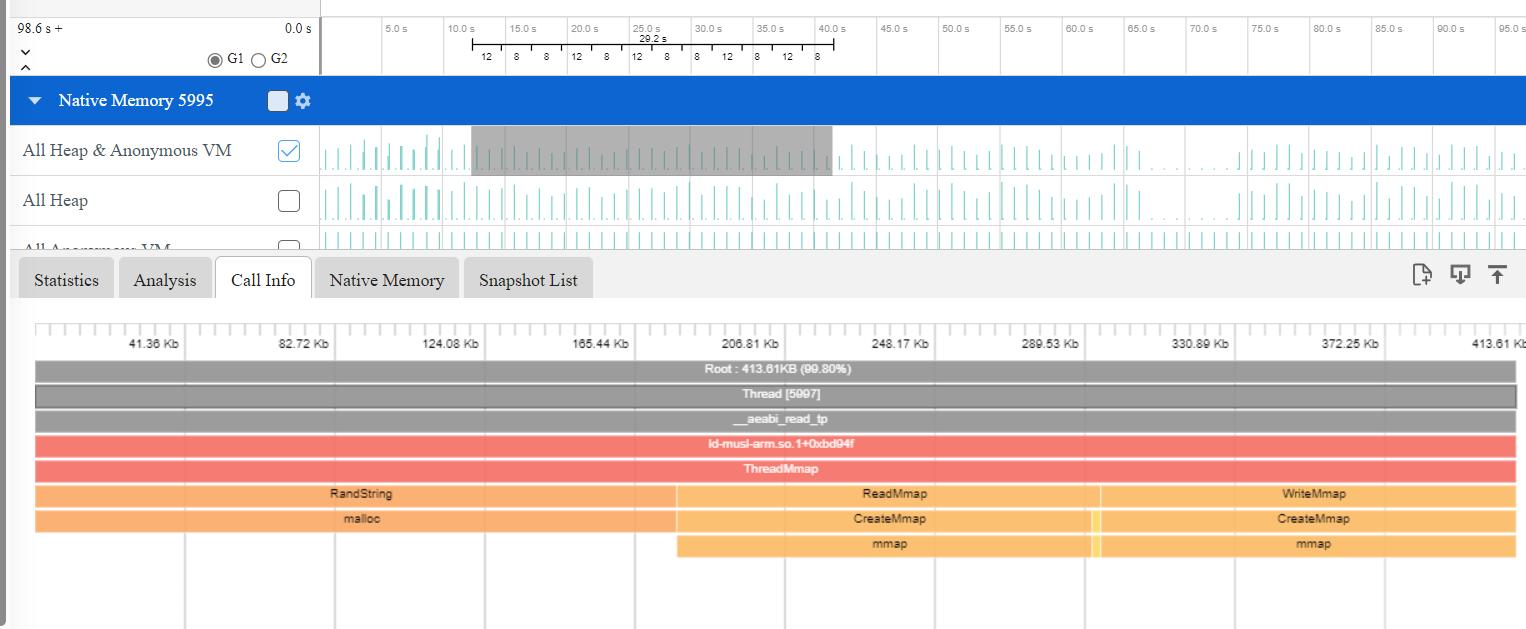
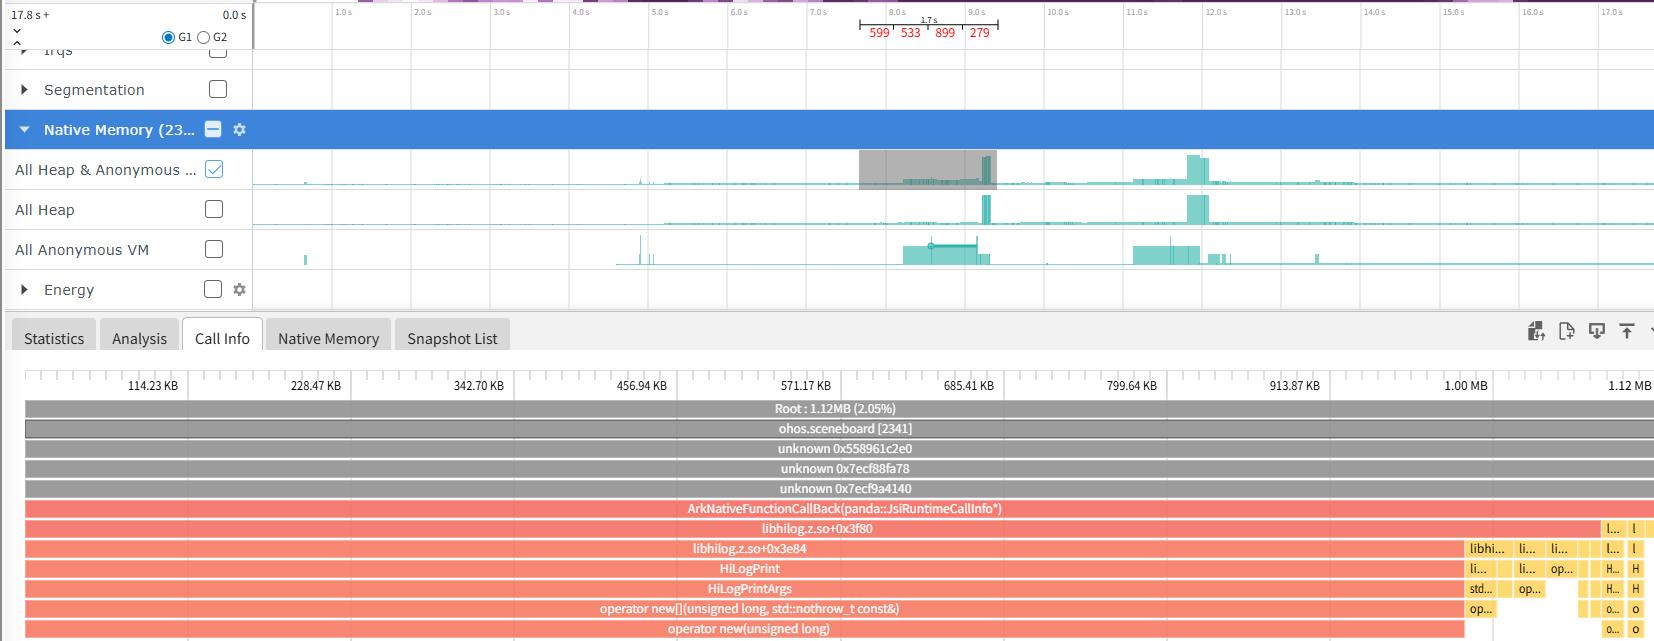
fix:内存相关问题修改

diff --git a/smartperf_host/ide/src/trace/component/trace/sheet/otherSource/TabpaneOSCalltree.ts b/smartperf_host/ide/src/trace/component/trace/sheet/otherSource/TabpaneOSCalltree.ts
@@ -46,7 +46,7 @@ export class TabpaneOSCalltree extends BaseElement {
     private filterOthersourceType: string = '0';
     private filterResponseType: number = -1;
     private filterResponseSelect: string = '0';
-    private otherSourceType: Array<string> = ['FD','THREAD'];
+    private otherSourceType: Array<string> = ['FD', 'THREAD'];
     private _analysisTabWidth: number = 0;
     private loadingList: number[] = [];
     private sortKey: string = 'heapSizeStr';
@@ -91,6 +91,15 @@ export class TabpaneOSCalltree extends BaseElement {
     }
 
     set data(osCallTreeParam: SelectionParam) {
+        const isShow = osCallTreeParam.otherSource.length > 0;
+        this.osCallTreeFrameChart!.dispatchEvent(
+            new CustomEvent('show-calibration', {
+                detail: {
+                    isShow: isShow
+                },
+                bubbles: false
+            })
+        );
         if (osCallTreeParam === this.currentSelection) {
             return;
         }
@@ -153,7 +162,7 @@ export class TabpaneOSCalltree extends BaseElement {
         this.osCallTreeProgressEL!.loading = true; // @ts-ignore
         this.osCallTreeLoadingPage.style.visibility = 'visible';
     }
-    
+
     initElements(): void {
         this.headLine = this.shadowRoot?.querySelector<LitHeadLine>('.titleBox');
         this.osCallTreeTbl = this.shadowRoot?.querySelector<LitTable>('#tb-otherSource-calltree');
@@ -279,7 +288,7 @@ export class TabpaneOSCalltree extends BaseElement {
         }
     }
 
-    private initGetFilterByOSCallTreeFilter(osCallTreeData: FilterData): void {//看一下
+    private initGetFilterByOSCallTreeFilter(osCallTreeData: FilterData): void {
         if (
             this.filterLifespanType !== osCallTreeData.firstSelect ||
             this.filterOthersourceType !== osCallTreeData.secondSelect ||
@@ -563,10 +572,10 @@ export class TabpaneOSCalltree extends BaseElement {
             );
             addSubType(subTypeList);
         }// @ts-ignore
-        this.oSCallTreeFilterExtend(secondFilterList,osCallTreeParam);
+        this.oSCallTreeFilterExtend(secondFilterList, osCallTreeParam);
     }
 
-    private oSCallTreeFilterExtend(secondFilterList: string[],osCallTreeParam: SelectionParam): void {
+    private oSCallTreeFilterExtend(secondFilterList: string[], osCallTreeParam: SelectionParam): void {
         procedurePool.submitWithName('logic0', 'other-source-get-responseType', {}, undefined, (res: unknown) => {
             // @ts-ignore
             this.responseTypes = res;
@@ -965,5 +974,5 @@ export class TabpaneOSCalltree extends BaseElement {
     initHtml(): string {
         return TabPaneOSCallTreeHtml;
     }
-    
+
 }

diff --git a/smartperf_host/ide/src/trace/component/chart/FrameChart.ts b/smartperf_host/ide/src/trace/component/chart/FrameChart.ts
@@ -69,6 +69,7 @@ export class FrameChart extends BaseElement {
   _totalRootData: Array<ChartStruct> = []; //初始化顶部root的数据
   private totalRootNode!: ChartStruct;
   private tabPaneFilter: TabPaneFilter | undefined;
+  private _isShow: boolean = true;
 
   /**
    * set chart mode
@@ -887,6 +888,7 @@ export class FrameChart extends BaseElement {
               time: ChartStruct.selectFuncStruct.tsArray,
               counts: ChartStruct.selectFuncStruct.countArray,
               durations: ChartStruct.selectFuncStruct.durArray,
+              isShow:this._isShow
             },
           })
         );
@@ -1103,6 +1105,10 @@ export class FrameChart extends BaseElement {
       }
     });
     this.listenerResize();
+    this.addEventListener('show-calibration', (e: Event) => {
+      const customEvent = e as CustomEvent<{ isShow: boolean }>;
+      this._isShow = customEvent.detail.isShow;
+    });
   }
 
   public initHtml(): string {

diff --git a/smartperf_host/ide/src/trace/component/trace/timer-shaft/SportRuler.ts b/smartperf_host/ide/src/trace/component/trace/timer-shaft/SportRuler.ts
@@ -98,6 +98,7 @@ export class SportRuler extends Graph {
   private timeArray: Array<number> = [];
   private countArray: Array<number> = [];
   private durArray: Array<number> = [];
+  private _isShow: boolean = true;
   private mouseIn: boolean = false;
   constructor(
     timerShaftEL: TimerShaftElement,
@@ -132,6 +133,10 @@ export class SportRuler extends Graph {
 
   set durations(durArray: Array<number>) {
     this.durArray = durArray;
+  }
+
+  set showRuler(isShow: boolean) {
+    this._isShow = isShow;
   }
 
   modifyFlagList(flag: Flag | null | undefined): void {
@@ -260,6 +265,9 @@ export class SportRuler extends Graph {
   }
 
   drawRangeSelect(): void {
+    if (!this._isShow) {
+      return;
+    }
     this.initRangeSelect();
     if (this.timeArray.length > 0 && TraceRow.rangeSelectObject) {
       // 页面可视框选区域的宽度

diff --git a/smartperf_host/ide/src/trace/database/data-trafic/NativeMemoryDataReceiver.ts b/smartperf_host/ide/src/trace/database/data-trafic/NativeMemoryDataReceiver.ts
@@ -107,7 +107,7 @@ function nativeMemoryChartDataCacheSql(model: string, startNS: number, endNS: nu
                 ipid,
                 type               
             from native_hook_statistic
-            where type in ( 0, 1, 2 )
+            where type in ( 0, 1, 2, 3 )
             and ts between ${startNS} and ${endNS};
     `;
   }
@@ -165,7 +165,7 @@ function mergeData(
   if (data) {
     let last = data.dataList[data.dataList.length - 1];
     last.dur = item.startTime! - last.startTime!;
-    if (last.dur > filterLevel || finish) {
+    if (last.dur >= filterLevel || finish) {
       if (ne.eventType === 0 || ne.eventType === 1) {
         item.density = last.density! + tempDensity + 1;
         item.heapSize = last.heapSize! + tempSize + ne.heapSize;

diff --git a/smartperf_host/ide/src/doc/quickstart_native_memory.html b/smartperf_host/ide/src/doc/quickstart_native_memory.html
@@ -1067,7 +1067,7 @@
       <h3 class="mume-header fontColor" id="header-index-7">
         基于函数进行调用栈（单个或多个）选择后可以在时间轴上显示内存操作点</h3>
 
-      <p class="fontColor">点击火焰图函数时，触发火焰图点击，显示调用栈中该函数出现在时间轴范围的分布情况。<br>
+      <p class="fontColor">在非统计模式下，点击火焰图函数时，触发火焰图点击，显示调用栈中该函数出现在时间轴范围的分布情况。<br>
         <img
           src="../figures/NativeMemory/memoryframe.jpg"
           alt="GitHub Logo"></p>

diff --git a/smartperf_host/ide/src/trace/component/trace/sheet/gpu-memory/TabpaneGMCalltree.ts b/smartperf_host/ide/src/trace/component/trace/sheet/gpu-memory/TabpaneGMCalltree.ts
@@ -92,6 +92,15 @@ export class TabpaneGMCalltree extends BaseElement {
     }
 
     set data(gmCallTreeParam: SelectionParam) {
+        const isShow = gmCallTreeParam.gpuMemory.length > 0;
+        this.gmCallTreeFrameChart!.dispatchEvent(
+            new CustomEvent('show-calibration', {
+                detail: {
+                    isShow: isShow
+                },
+                bubbles: false
+            })
+        );
         if (gmCallTreeParam === this.currentSelection) {
             return;
         }

diff --git a/smartperf_host/ide/src/trace/database/logic-worker/ProcedureLogicWorkerGpuMemory.ts b/smartperf_host/ide/src/trace/database/logic-worker/ProcedureLogicWorkerGpuMemory.ts
@@ -691,7 +691,7 @@ export class ProcedureLogicWorkerGpuMemory extends LogicHandler {
   }
 
   setMerageName(currentNode: NativeHookCallInfo): void {
-    currentNode.lib = this.dataCache.dataDict.get(currentNode.fileId) || 'unknown';//看一下
+    currentNode.lib = this.dataCache.dataDict.get(currentNode.fileId) || 'unknown';
     if (this.isHap(currentNode.lib)) {
       const fullName = this.dataCache.dataDict.get(currentNode.symbolId);
       this.extractSymbolAndPath(currentNode, fullName);

diff --git a/smartperf_host/ide/src/trace/component/trace/sheet/hiperf/TabPerfProfile.ts b/smartperf_host/ide/src/trace/component/trace/sheet/hiperf/TabPerfProfile.ts
@@ -91,6 +91,14 @@ export class TabpanePerfProfile extends BaseElement {
   }
 
   set data(perfProfilerSelection: SelectionParam | unknown) {
+    this.perfProfileFrameChart!.dispatchEvent(
+      new CustomEvent('show-calibration', {
+        detail: {
+          isShow: false
+        },
+        bubbles: false
+      })
+    );
     if (perfProfilerSelection !== this.currentSelection && this._rowClickData === this.currentRowClickData) {
       this._rowClickData = undefined;
     }

diff --git a/smartperf_host/ide/src/trace/component/trace/sheet/file-system/TabPaneFileSystemCalltree.ts b/smartperf_host/ide/src/trace/component/trace/sheet/file-system/TabPaneFileSystemCalltree.ts
@@ -89,6 +89,14 @@ export class TabpaneFilesystemCalltree extends BaseElement {
   }
 
   set data(fsCallTreeSelection: SelectionParam | unknown) {
+    this.frameChart!.dispatchEvent(
+      new CustomEvent('show-calibration', {
+        detail: {
+          isShow: false
+        },
+        bubbles: false
+      })
+    );
     if (fsCallTreeSelection !== this.currentSelection && this._fsRowClickData === this.currentRowClickData) {
       this._fsRowClickData = undefined;
     }

diff --git a/smartperf_host/ide/src/trace/database/logic-worker/ProcedureLogicWorkerOtherSource.ts b/smartperf_host/ide/src/trace/database/logic-worker/ProcedureLogicWorkerOtherSource.ts
@@ -458,7 +458,7 @@ export class ProcedureLogicWorkerOtherSource extends LogicHandler {
     }
   }
 
-  private groupCallChainSample(paramMap: Map<string, unknown>): void {//看一下
+  private groupCallChainSample(paramMap: Map<string, unknown>): void {
     let filterAllocType = paramMap.get('filterAllocType') as string;
     let filterEventType = paramMap.get('filterEventType') as string;
     let filterResponseType = paramMap.get('filterResponseType') as number;

diff --git a/smartperf_host/ide/src/trace/component/trace/sheet/file-system/TabPaneCallTree.ts b/smartperf_host/ide/src/trace/component/trace/sheet/file-system/TabPaneCallTree.ts
@@ -90,6 +90,14 @@ export class TabPaneCallTree extends BaseElement {
   }
 
   set data(callTreeSelection: SelectionParam | unknown) {
+    this.frameChart!.dispatchEvent(
+      new CustomEvent('show-calibration', {
+        detail: {
+          isShow: false
+        },
+        bubbles: false
+      })
+    );
     if (callTreeSelection !== this.currentSelection && this._rowClickData === this.currentRowClickData) {
       this._rowClickData = undefined;
     }

diff --git a/smartperf_host/ide/src/trace/component/trace/sheet/native-memory/TabPaneNMCallTree.ts b/smartperf_host/ide/src/trace/component/trace/sheet/native-memory/TabPaneNMCallTree.ts
@@ -92,6 +92,15 @@ export class TabpaneNMCalltree extends BaseElement {
   }
 
   set data(nmCallTreeParam: SelectionParam) {
+    const isShow = nmCallTreeParam.nativeMemory.length > 0;
+    this.nmCallTreeFrameChart!.dispatchEvent(
+      new CustomEvent('show-calibration', {
+        detail: {
+          isShow: isShow
+        },
+        bubbles: false
+      })
+    );
     if (nmCallTreeParam === this.currentSelection) {
       return;
     }
